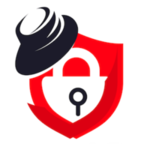
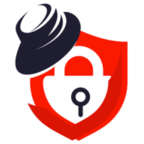
Final color palette

diff --git a/app/assets/stylesheets/passwords.css b/app/assets/stylesheets/passwords.css
@@ -27,7 +27,7 @@ input.password {
   width: 15px;
   height: 15px;
   border-radius: 50%;
-  background: #DB1501;
+  background: #DB1503;
   cursor: pointer;
 }
 
@@ -35,7 +35,7 @@ input.password {
   width: 15px;
   height: 15px;
   border-radius: 50%;
-  background: #DB1501;
+  background: #DB1503;
   cursor: pointer;
 }
 
@@ -60,32 +60,18 @@ span#daysrange, span#viewsrange { display: inline-block; width: 80px; text-align
   -webkit-box-shadow: 0 1px 0 rgba(255, 255, 255, 0.5) inset;
 }
 
-div.title {
-  margin: 3em;
-}
-
-div.title p {
-  font-size: 4em;
-  color: yellow;
-}
-
-div.title p span {
-  display: block;
-  font-size: .4em;
-  color: #ddd;
-}
-
-p.payload { margin: 1em; }
+p.payload-entry { margin: 20px 0px 50px 0px; }
 
 p.pwinstructions {
   margin: 1em;
   font-size: 1.5em;
-  text-decoration: underline;
+  text-decoration: none;
+  font-weight: bold;
 }
 
 p.notes { margin-top: 50px; font-size: .9em; }
 span.note, span.tip { font-size: .9em; }
-span.note { color: #808080; }
+span.note { color: #6D6E70; }
 span.tip { font-style: italic; }
 p.notes a:link, p.notes a:visited, p.notes a:hover, p.notes a:active { font-size: .9em; }
 
@@ -107,9 +93,9 @@ button.copy-to-clipboard {
   margin-top: 20px;
   padding: 10px;
   display: inline-block;
-  border: 1px solid #003300;
+  border: 1px solid #1F1D30;
   cursor: pointer;
-  background: #006600;
+  background: #303DFF;
   color: #ffffff;
   vertical-align: middle;
   border-radius: 3px 3px 3px 3px;
@@ -138,6 +124,10 @@ div.payload {
   margin: 30px 0px 30px 0px;
   border: 3px solid #eee;
   width: 100%;
+}
+
+.payload-tips {
+  text-align: left;
 }
 
 .cookie-save { font-size: .9em; }

diff --git a/app/assets/stylesheets/global.scss b/app/assets/stylesheets/global.scss
@@ -9,6 +9,7 @@ body {
   text-align: center;
   background: #fff;
   font-family: 'Open Sans', Tahoma, Georgia, Verdana, serif;    
+  // color: #1F1D30;
   color: #6D6E70;
   width: 95%;
   font-size: 16px;
@@ -23,10 +24,10 @@ body::after{ content:''; display:block; min-height:100px; }
 	footer { position: static; }
 }
 
-h1 { font-size: 3em; }
-h2 { font-size: 1.5em; }
-h3 { font-size: 1em; }
-h4 { font-size: .5em; }
+h1 { font-size: 3em; color: #1F1D30;}
+h2 { font-size: 1.5em; color: #1F1D30; }
+h3 { font-size: 1em; color: #6D6E70;}
+h4 { font-size: .5em; color: #6D6E70;}
 
 
 article {
@@ -34,33 +35,24 @@ article {
 }
 
 a:link, a:visited, a:active {
-  color: #DB1501;
-  text-decoration: none
+  color: #DB1503;
+  text-decoration: none; 
 }
 
 a:hover {
-  color: #F91B00;
-  text-decoration: none;
+  text-decoration: underline;
 }
 
-.normal-yellow-font {
-  color: #DB1501;
-}
-
-.medium-yellow-font {
-  font-size: 2em;
-  color: #DB1501;
-}
-
-.large-yellow-font {
+.expired-message {
   font-size: 3em;
-  color: #DB1501;
+  color: #DB1503;
 }
 
 .horizontal-logo {
   width:100%; 
   height:auto; 
   max-width: 500px;
+  margin: 25px 0px 50px 0px;
 }
 
 footer {
@@ -167,7 +159,7 @@ footer {
 }
 
 .footer-distributed .footer-center p a {
-	color:  #DB1501;
+	color:  #DB1503;
 	text-decoration: none;;
 }
 
@@ -205,6 +197,7 @@ footer {
 	cursor: pointer;
 	background-color:  #33383b;
 	border-radius: 2px;
+  text-decoration: none;
 
 	font-size: 40px;
 	color: #ffffff;

diff --git a/test/integration/password_creation_test.rb b/test/integration/password_creation_test.rb
@@ -83,7 +83,7 @@ class PasswordCreationTest < ActionDispatch::IntegrationTest
     password_id = request.path.split('/')[2]
     delete_link = css_select "a##{password_id}"
     assert(delete_link.length == 1)
-    assert(delete_link.first.child.content.include?("Nah. I've got it. Delete this secret link now."))
+    assert(delete_link.first.child.content.include?('Delete this secret link now'))
   end
 
   def test_deletable_by_viewer_falls_back_to_default

diff --git a/test/integration/password_deletion_test.rb b/test/integration/password_deletion_test.rb
@@ -25,7 +25,7 @@ class PasswordCreationTest < ActionDispatch::IntegrationTest
     assert(divs)
     assert(divs.first.content.include?('testpw'))
 
-    assert_select 'a', 'Nah. I\'ve got it. Delete this secret link now.'
+    assert_select 'a', 'Delete this secret link now'
 
     # Delete the passworda
     delete request.url

diff --git a/docs/faq.md b/docs/faq.md
@@ -31,11 +31,11 @@ Absolutely.  Password Pusher has a fair number of applications and command line 
 
 ## Can I automate my password distribution?
 
-Yes - many other users utilize either Slack or the command line to push and distribute passwords.  See our [Tools & Applications](/pages/tools) page for more details.
+Yes - many users utilize either Slack or the command line to push and distribute passwords.  See our [Tools & Applications](/pages/tools) page for more details.
 
 ## How many requests can I send to Password Pusher?
 
-There is no limits currently and I have no intention of adding any.  To minimally assure site stability, Password Pusher is configured with a rate limiter by default.
+There are no limits currently and I have no intention of adding any.  To minimally assure site stability, Password Pusher is configured with a rate limiter by default.
 
 ## How can I run my own version for my organization?
 
@@ -43,7 +43,7 @@ See our Installation documentation for more details.
 
 ## Are there any licensing restrictions for me, my company or my organization?
 
-The source code is release under the GNU General Public License v3.0.  I take great pride in the number of people using the software so if you have any questions, I'd be more than happy to help out.
+The source code is released under the GNU General Public License v3.0.  I take great pride in the number of people using the software so if you have any questions, I'd be more than happy to help out.
 
 ## Can I use Password Pusher in my talk/presentation/conference?
 
@@ -55,6 +55,8 @@ Very likely.  I love to hear all ideas & feedback. If you have any, please submi
 
 ## How do you make money?
 
-I don't. This is just a pet project I work on in my spare time built for the community. Monthly costs are $17/month for Heroku hosting and any time/effort that I've put in or will put in developing the tool is voluntary/donated.
+I don't. This is just a pet project I work on in my spare time built for the community. Monthly costs are $34/month for Heroku hosting and any time/effort that I've put in or will put in developing the tool is voluntary/donated.
 
-I've thought about moving the site to a Digital Ocean droplet but Heroku just makes it so easy. No configuring Apache/nginx, deploy scripts, monitoring services etc... But in all honesty, that $20/month just for SSL is kind of aggrevating.
+I've thought about moving the site to a Digital Ocean droplet but Heroku just makes it so easy. No configuring Apache/nginx, deploy scripts, monitoring services etc...
+
+**2021 Update**:  The traffic has grown to an amount where 1 Heroku dyno no longer is sufficient. 2x professional dynos and the postgres add-on now has the project up to $59/month. 

diff --git a/docs/about.md b/docs/about.md
@@ -1,6 +1,6 @@
 # About
 
-PasswordPusher is an application to communicate passwords over the web. Links to passwords expire after a certain number of views and/or time has passed.  Hosted at [pwpush.com](https://pwpush.com) or host your own.
+Password Pusher is an application to communicate passwords over the web. Links to passwords expire after a certain number of views and/or time has passed.  Hosted at [pwpush.com](https://pwpush.com) or host your own.
 
 The source code to this site is [on Github](https://github.com/pglombardo/PasswordPusher). It's opensource and free for anyone to use or modify. Deploy it to the cloud, internally at your organization or just use pwpush.com. It's up to you.
 
@@ -12,4 +12,4 @@ For updates, you can [follow me on Twitter](https://twitter.com/pwpush) or [Gith
 
 ## Credits
 
-PasswordPusher has a great community of contributors. [Take a look](https://github.com/pglombardo/PasswordPusher/graphs/contributors).
+Password Pusher has a great community of contributors. [Take a look](https://github.com/pglombardo/PasswordPusher/graphs/contributors).
